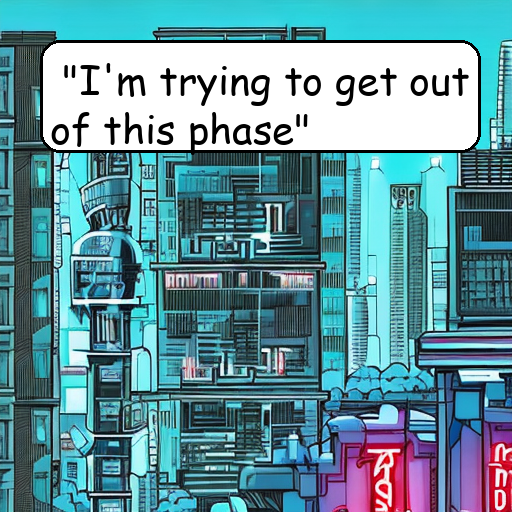
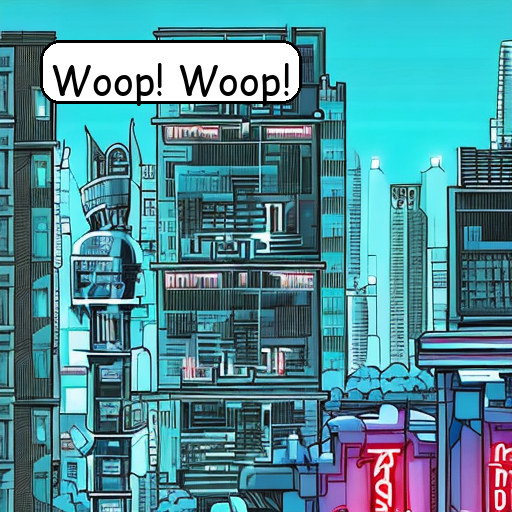
Fixed the Comic Layout

Changed region(s): [[0.0625, 0.0625, 0.9375, 0.3125]]

diff --git a/comic_page.html b/comic_page.html
@@ -5,93 +5,109 @@
 <meta name="viewport" content="width=device-width, initial-scale=1">
 <title>Anime Comic</title>
 <link href="https://fonts.googleapis.com/css2?family=Bangers&family=Roboto:wght@400;700&family=Luckiest+Guy&display=swap" rel="stylesheet">
+
 <style>
 body {
     margin: 0;
-    background: radial-gradient(circle at top left, #1b0034, #090016 70%);
-    background-attachment: fixed;
+    background: linear-gradient(180deg, #130024, #080012 60%, #000008);
     font-family: 'Roboto', sans-serif;
-    overflow-x: hidden;
     color: #fff;
+    overflow-x: hidden;
 }
 
+/* Title */
 header {
     font-family: 'Luckiest Guy', cursive;
-    font-size: 58px;
+    font-size: 54px;
     color: #ff3df0;
     text-align: center;
-    text-shadow: 3px 3px 0 #000, 0 0 15px #ff9dff, 0 0 30px #ff47f5;
-    padding: 25px 10px;
-    background: linear-gradient(180deg, #2c0059, #1b0034);
-    border-bottom: 6px solid #ff3df0;
-    letter-spacing: 2px;
+    padding: 28px 10px;
+    letter-spacing: 3px;
+    background: linear-gradient(180deg, #2c0059, #190030);
+    border-bottom: 4px solid #ff3df0;
+    text-shadow: 
+        3px 3px 0 #000, 
+        0 0 20px #ff6aff,
+        0 0 40px #ff3df0;
 }
 
+/* More Vertical Layout */
 .comic-page {
-    display: grid;
-    grid-template-columns: repeat(auto-fit, minmax(300px, 1fr));
-    gap: 22px;
-    padding: 40px;
+    display: flex;
+    flex-direction: column;
+    gap: 35px;
+    padding: 35px 18px 50px;
+    max-width: 850px;
+    margin: auto;
 }
 
+/* Panels redesigned - cleaner borders + depth */
 .panel {
-    background: linear-gradient(135deg, #2b004a, #120027);
-    border: 5px solid #ff47f5;
-    border-radius: 10px;
-    padding: 6px;
-    box-shadow: 0 0 25px rgba(255, 71, 245, 0.4), 8px 8px 0 rgba(0,0,0,0.5);
-    transform: rotate(calc(var(--tilt) * 1deg));
-    transition: all 0.3s ease;
+    background: #150026;
+    border: 4px solid #ff47f5;
+    border-radius: 14px;
+    padding: 10px;
+    box-shadow: 
+        0 0 25px rgba(255, 70, 245, 0.45),
+        0 0 5px rgba(255, 70, 245, 0.7) inset;
+    transform: rotate(calc(var(--tilt) * 0.7deg));
+    transition: all 0.35s ease;
     position: relative;
     overflow: hidden;
 }
+
+/* Hover pop-out */
 .panel:hover {
-    transform: rotate(0deg) scale(1.05);
-    box-shadow: 0 0 35px rgba(255, 71, 245, 0.8);
+    transform: rotate(0deg) scale(1.04);
+    box-shadow: 
+        0 0 35px rgba(255, 70, 245, 0.85),
+        0 0 8px rgba(255, 70, 245, 1) inset;
     z-index: 3;
 }
+
+/* Comic Image */
 .panel img {
     width: 100%;
-    height: auto;
+    border-radius: 10px;
     object-fit: contain;
-    display: block;
-    background: #000;
+    box-shadow: 0 0 18px rgba(255, 71, 245, 0.4);
     border: 3px solid #ff47f5;
-    border-radius: 8px;
-    filter: contrast(1.15) saturate(1.3);
 }
 
+/* Caption bubble */
 .caption {
     font-family: 'Bangers', cursive;
-    background: rgba(255, 255, 255, 0.12);
-    border: 2px solid #ff47f5;
-    border-radius: 6px;
-    padding: 6px 12px;
     position: absolute;
-    bottom: 12px;
-    left: 12px;
+    bottom: 14px;
+    left: 14px;
+    max-width: 85%;
+    padding: 8px 14px;
+    background: rgba(255, 255, 255, 0.14);
+    border: 2px solid #ff47f5;
+    border-radius: 10px;
     font-size: 20px;
-    color: #ffecff;
+    color: #ffe3ff;
     text-shadow: 2px 2px 0 #000;
-    backdrop-filter: blur(5px);
-    box-shadow: 0 0 12px rgba(255, 71, 245, 0.6);
+    backdrop-filter: blur(6px);
+    box-shadow: 0 0 15px rgba(255, 70, 245, 0.7);
 }
 
+/* Lightbox */
 #lightbox {
     display: none;
     position: fixed;
     inset: 0;
-    background: rgba(10, 0, 20, 0.95);
+    background: rgba(5, 0, 10, 0.95);
     align-items: center;
     justify-content: center;
     z-index: 9999;
 }
 #lightbox img {
-    max-width: 90%;
-    max-height: 90%;
+    max-width: 92%;
+    max-height: 92%;
     border: 6px solid #ff47f5;
-    border-radius: 10px;
-    box-shadow: 0 0 40px rgba(255, 71, 245, 0.8);
+    border-radius: 14px;
+    box-shadow: 0 0 55px rgba(255, 71, 245, 0.9);
 }
 </style>
 </head>
@@ -130,9 +146,11 @@ header {
 </div>
 
 </main>
+
 <div id="lightbox">
   <img id="lightboxImg" src="">
 </div>
+
 <script>
 document.addEventListener('click', function(e){
   const panel = e.target.closest('.panel');
@@ -151,5 +169,6 @@ document.addEventListener('click', function(e){
   }
 });
 </script>
+
 </body>
 </html>

diff --git a/comic_maker.py b/comic_maker.py
@@ -58,93 +58,109 @@ def generate_comic_page():
 <meta name="viewport" content="width=device-width, initial-scale=1">
 <title>Anime Comic</title>
 <link href="https://fonts.googleapis.com/css2?family=Bangers&family=Roboto:wght@400;700&family=Luckiest+Guy&display=swap" rel="stylesheet">
+
 <style>
 body {
     margin: 0;
-    background: radial-gradient(circle at top left, #1b0034, #090016 70%);
-    background-attachment: fixed;
+    background: linear-gradient(180deg, #130024, #080012 60%, #000008);
     font-family: 'Roboto', sans-serif;
-    overflow-x: hidden;
     color: #fff;
+    overflow-x: hidden;
 }
 
+/* Title */
 header {
     font-family: 'Luckiest Guy', cursive;
-    font-size: 58px;
+    font-size: 54px;
     color: #ff3df0;
     text-align: center;
-    text-shadow: 3px 3px 0 #000, 0 0 15px #ff9dff, 0 0 30px #ff47f5;
-    padding: 25px 10px;
-    background: linear-gradient(180deg, #2c0059, #1b0034);
-    border-bottom: 6px solid #ff3df0;
-    letter-spacing: 2px;
+    padding: 28px 10px;
+    letter-spacing: 3px;
+    background: linear-gradient(180deg, #2c0059, #190030);
+    border-bottom: 4px solid #ff3df0;
+    text-shadow: 
+        3px 3px 0 #000, 
+        0 0 20px #ff6aff,
+        0 0 40px #ff3df0;
 }
 
+/* More Vertical Layout */
 .comic-page {
-    display: grid;
-    grid-template-columns: repeat(auto-fit, minmax(300px, 1fr));
-    gap: 22px;
-    padding: 40px;
+    display: flex;
+    flex-direction: column;
+    gap: 35px;
+    padding: 35px 18px 50px;
+    max-width: 850px;
+    margin: auto;
 }
 
+/* Panels redesigned - cleaner borders + depth */
 .panel {
-    background: linear-gradient(135deg, #2b004a, #120027);
-    border: 5px solid #ff47f5;
-    border-radius: 10px;
-    padding: 6px;
-    box-shadow: 0 0 25px rgba(255, 71, 245, 0.4), 8px 8px 0 rgba(0,0,0,0.5);
-    transform: rotate(calc(var(--tilt) * 1deg));
-    transition: all 0.3s ease;
+    background: #150026;
+    border: 4px solid #ff47f5;
+    border-radius: 14px;
+    padding: 10px;
+    box-shadow: 
+        0 0 25px rgba(255, 70, 245, 0.45),
+        0 0 5px rgba(255, 70, 245, 0.7) inset;
+    transform: rotate(calc(var(--tilt) * 0.7deg));
+    transition: all 0.35s ease;
     position: relative;
     overflow: hidden;
 }
+
+/* Hover pop-out */
 .panel:hover {
-    transform: rotate(0deg) scale(1.05);
-    box-shadow: 0 0 35px rgba(255, 71, 245, 0.8);
+    transform: rotate(0deg) scale(1.04);
+    box-shadow: 
+        0 0 35px rgba(255, 70, 245, 0.85),
+        0 0 8px rgba(255, 70, 245, 1) inset;
     z-index: 3;
 }
+
+/* Comic Image */
 .panel img {
     width: 100%;
-    height: auto;
+    border-radius: 10px;
     object-fit: contain;
-    display: block;
-    background: #000;
+    box-shadow: 0 0 18px rgba(255, 71, 245, 0.4);
     border: 3px solid #ff47f5;
-    border-radius: 8px;
-    filter: contrast(1.15) saturate(1.3);
 }
 
+/* Caption bubble */
 .caption {
     font-family: 'Bangers', cursive;
-    background: rgba(255, 255, 255, 0.12);
-    border: 2px solid #ff47f5;
-    border-radius: 6px;
-    padding: 6px 12px;
     position: absolute;
-    bottom: 12px;
-    left: 12px;
+    bottom: 14px;
+    left: 14px;
+    max-width: 85%;
+    padding: 8px 14px;
+    background: rgba(255, 255, 255, 0.14);
+    border: 2px solid #ff47f5;
+    border-radius: 10px;
     font-size: 20px;
-    color: #ffecff;
+    color: #ffe3ff;
     text-shadow: 2px 2px 0 #000;
-    backdrop-filter: blur(5px);
-    box-shadow: 0 0 12px rgba(255, 71, 245, 0.6);
+    backdrop-filter: blur(6px);
+    box-shadow: 0 0 15px rgba(255, 70, 245, 0.7);
 }
 
+/* Lightbox */
 #lightbox {
     display: none;
     position: fixed;
     inset: 0;
-    background: rgba(10, 0, 20, 0.95);
+    background: rgba(5, 0, 10, 0.95);
     align-items: center;
     justify-content: center;
     z-index: 9999;
 }
 #lightbox img {
-    max-width: 90%;
-    max-height: 90%;
+    max-width: 92%;
+    max-height: 92%;
     border: 6px solid #ff47f5;
-    border-radius: 10px;
-    box-shadow: 0 0 40px rgba(255, 71, 245, 0.8);
+    border-radius: 14px;
+    box-shadow: 0 0 55px rgba(255, 71, 245, 0.9);
 }
 </style>
 </head>
@@ -152,6 +168,7 @@ header {
 <header>✨ Anime Adventures ✨</header>
 <main class="comic-page">
 """
+
 
     html_panels = ""
     for p in panels:
@@ -166,9 +183,11 @@ header {
 
     html_end = """
 </main>
+
 <div id="lightbox">
   <img id="lightboxImg" src="">
 </div>
+
 <script>
 document.addEventListener('click', function(e){
   const panel = e.target.closest('.panel');
@@ -187,9 +206,11 @@ document.addEventListener('click', function(e){
   }
 });
 </script>
+
 </body>
 </html>
 """
+
 
     OUTPUT_HTML.write_text(html_start + html_panels + html_end, encoding="utf-8")
     print(f"HTML page saved: {OUTPUT_HTML}")

diff --git a/dialogue_adder.py b/dialogue_adder.py
@@ -35,10 +35,10 @@ def add_caption_to_6_images(res_folder="res",
         return
 
     dialogues1 = df["Dialogues"].tolist()
-    dialogues=[]
-    for i in dialogues1:
-        temp_d=i.split(",")
-        dialogues.append(temp_d[0])
+    dialogues=["What is happening to me?..","Ahhh.","Woop! Woop!","What place is this?","Look at that guy, Who is he?","Everyone is looking this side."]
+    # for i in dialogues1:
+    #     temp_d=i.split(",")
+    #     dialogues.append(temp_d[0])
 
     if len(dialogues) < 6:
         print(" ERROR: script.csv must contain at least 6 dialogue lines.")
